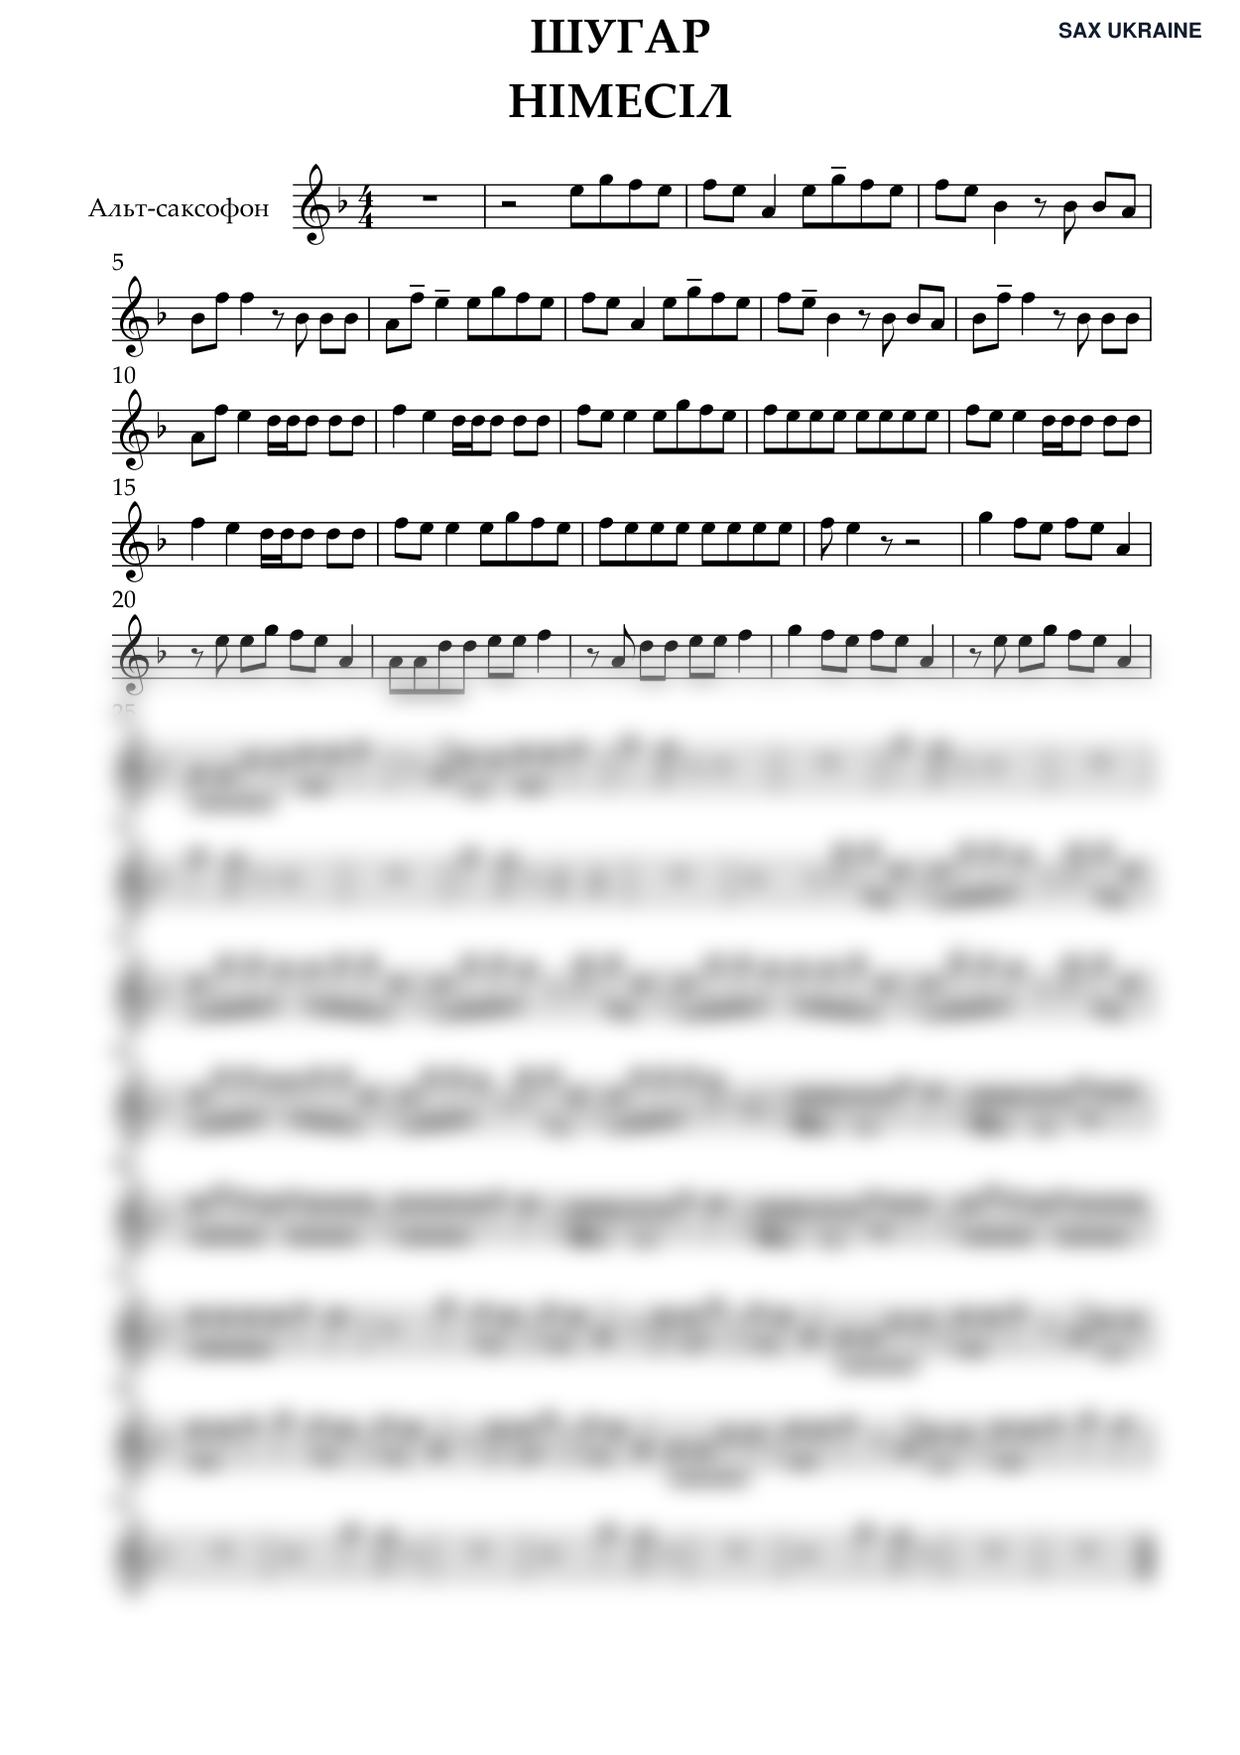
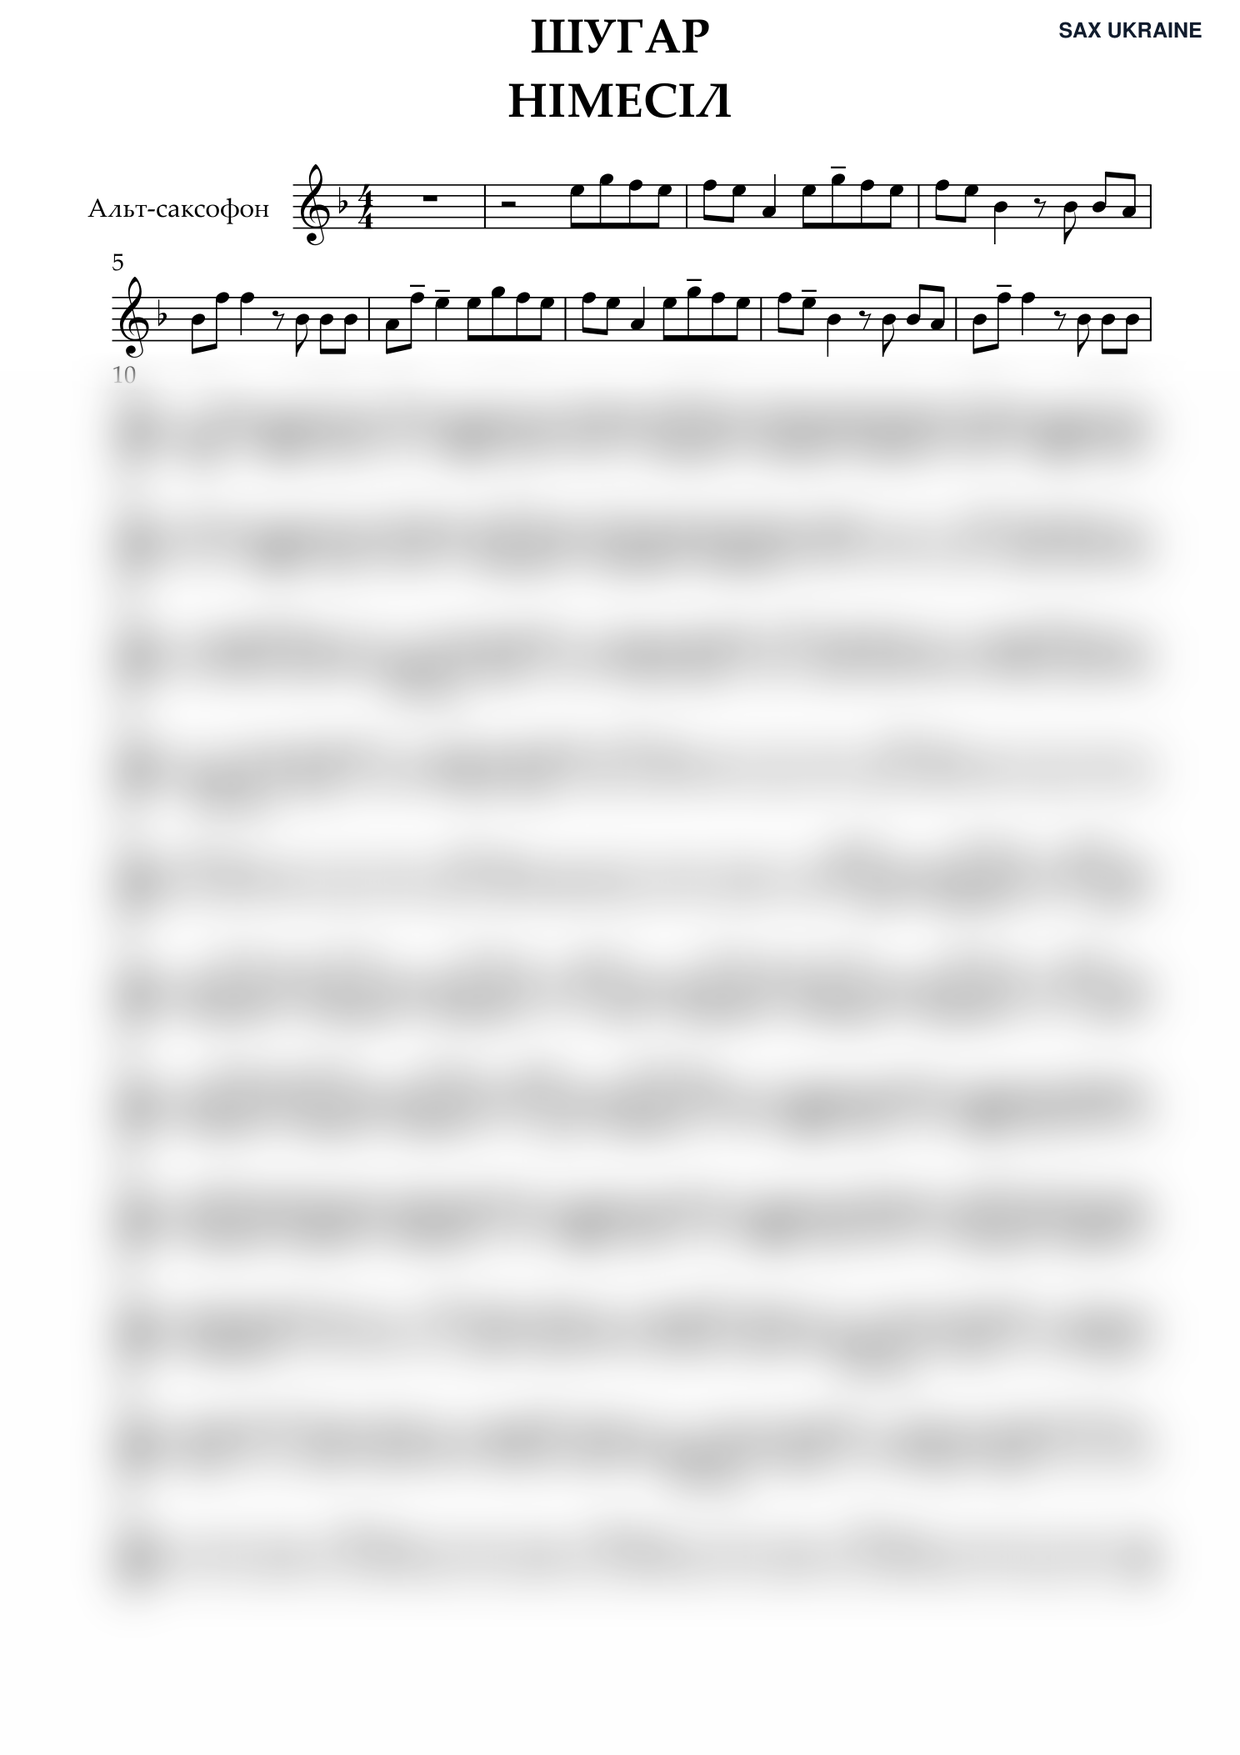
New

diff --git a/public/index.html b/public/index.html
@@ -185,7 +185,7 @@ footer{background:#06101b;color:#9cadbd;padding:38px 0 50px} .footer{display:fle
 <div class="artist">ШУГАР</div><h3>Німесіл</h3>
 <p class="desc">ШУГАР — «Німесіл»: запальний ритм, яскрава мелодія й сучасне звучання для альт-саксофона. Ноти PDF + повна фонограма MP3.</p>
 <div class="chips"><span class="chip">🎷 Альт-саксофон</span><span class="chip">📄 PDF</span><span class="chip">🎧 MP3</span><span class="chip">▶ Демо</span></div>
-<div class="preview-shell"><img class="preview" src="assets/shugar-nimesil-preview-blur.png" alt="Фрагмент нот ШУГАР — Німесіл для альт-саксофона"><div class="lock">🔒 Повна версія після покупки<small>PDF + MP3 на email</small></div></div>
+<div class="preview-shell"><img class="preview" src="assets/shugar-nimesil-preview-blur.png?v=2rows" alt="Фрагмент нот ШУГАР — Німесіл для альт-саксофона"><div class="lock">🔒 Повна версія після покупки<small>PDF + MP3 на email</small></div></div>
 <div class="price-row"><div class="price">100 грн</div><a class="more" href="/shugar-nimesil-saxophone.html">Детальніше →</a></div>
 </div>
 <div class="side">

diff --git a/public/shugar-nimesil-saxophone.html b/public/shugar-nimesil-saxophone.html
@@ -71,7 +71,7 @@ footer{border-top:1px solid var(--line);padding:35px 0;color:#8195aa;margin-top:
 <p class="desc">ШУГАР — «Німесіл»: енергійний сучасний трек із пружним ритмом і виразною мелодією для альт-саксофона. Ідеально, щоб освіжити репертуар, додати драйву репетиціям або вразити слухачів на виступі! У комплекті — ноти PDF і повна фонограма MP3.</p>
 <div class="chips"><span class="chip">🎷 Альт-саксофон</span><span class="chip">📄 PDF</span><span class="chip">🎧 MP3</span><span class="chip">🇺🇦 Українська музика</span></div>
 <h2>Фрагмент нот</h2>
-<div class="preview-wrap"><img class="preview" src="/assets/shugar-nimesil-preview-blur.png" alt="Фрагмент нот ШУГАР — Німесіл для альт-саксофона"></div>
+<div class="preview-wrap"><img class="preview" src="/assets/shugar-nimesil-preview-blur.png?v=2rows" alt="Фрагмент нот ШУГАР — Німесіл для альт-саксофона"></div>
 <div class="price">100 грн</div>
 </section>
 <aside class="card">
